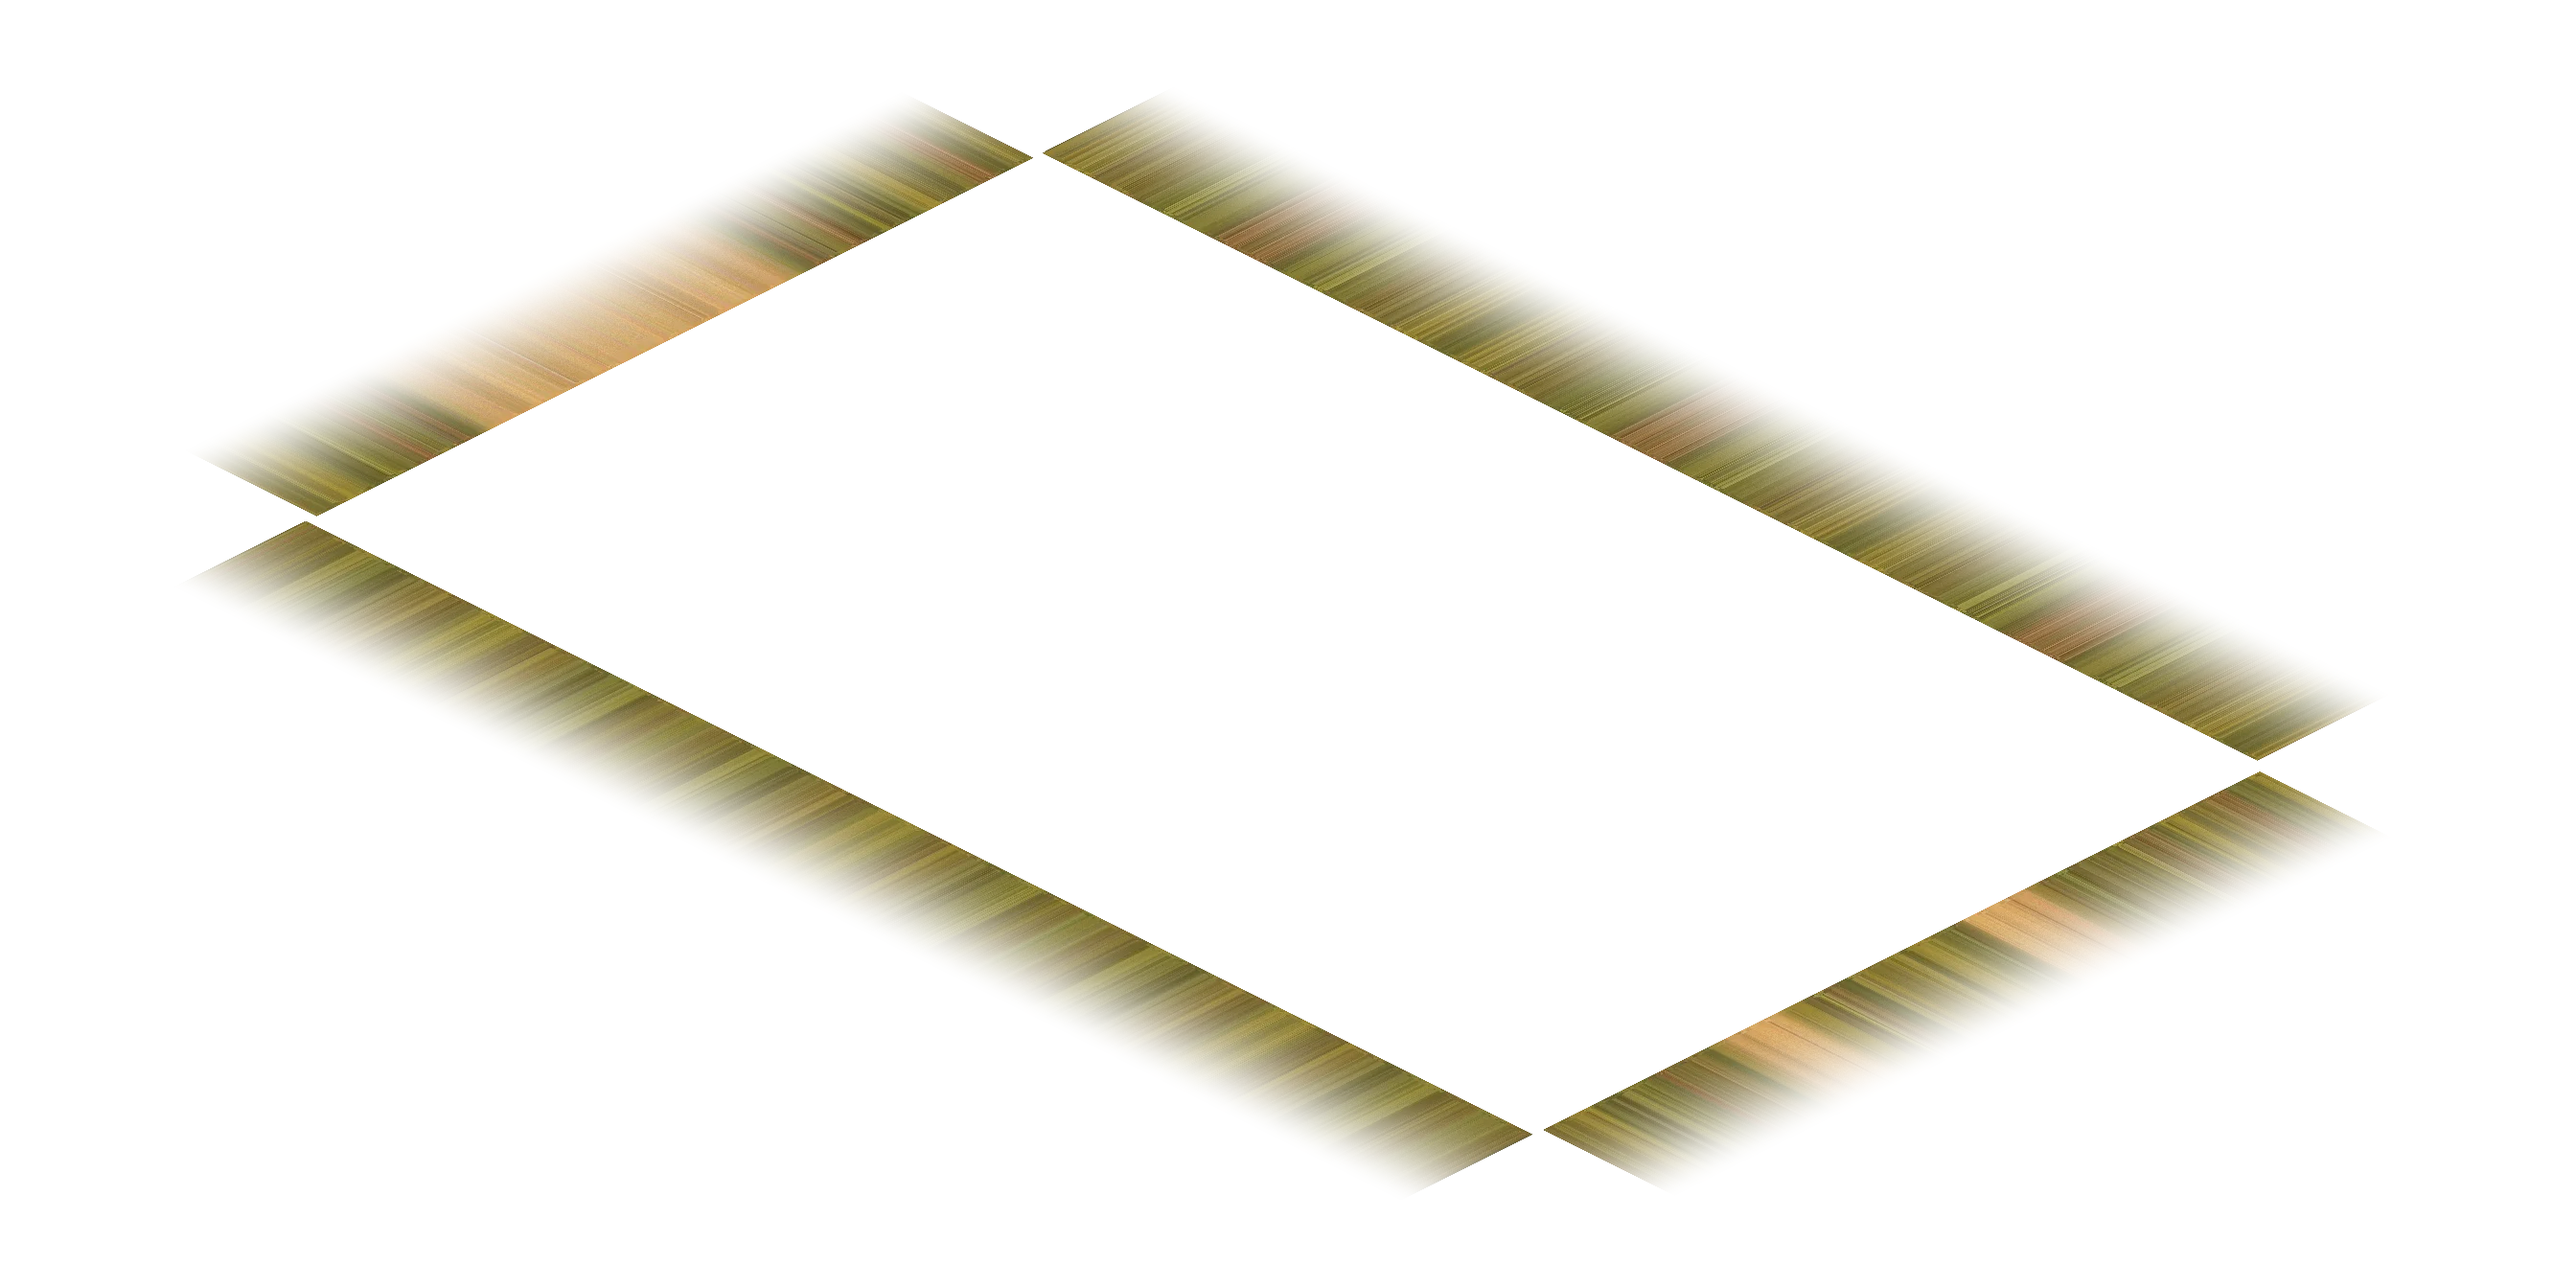
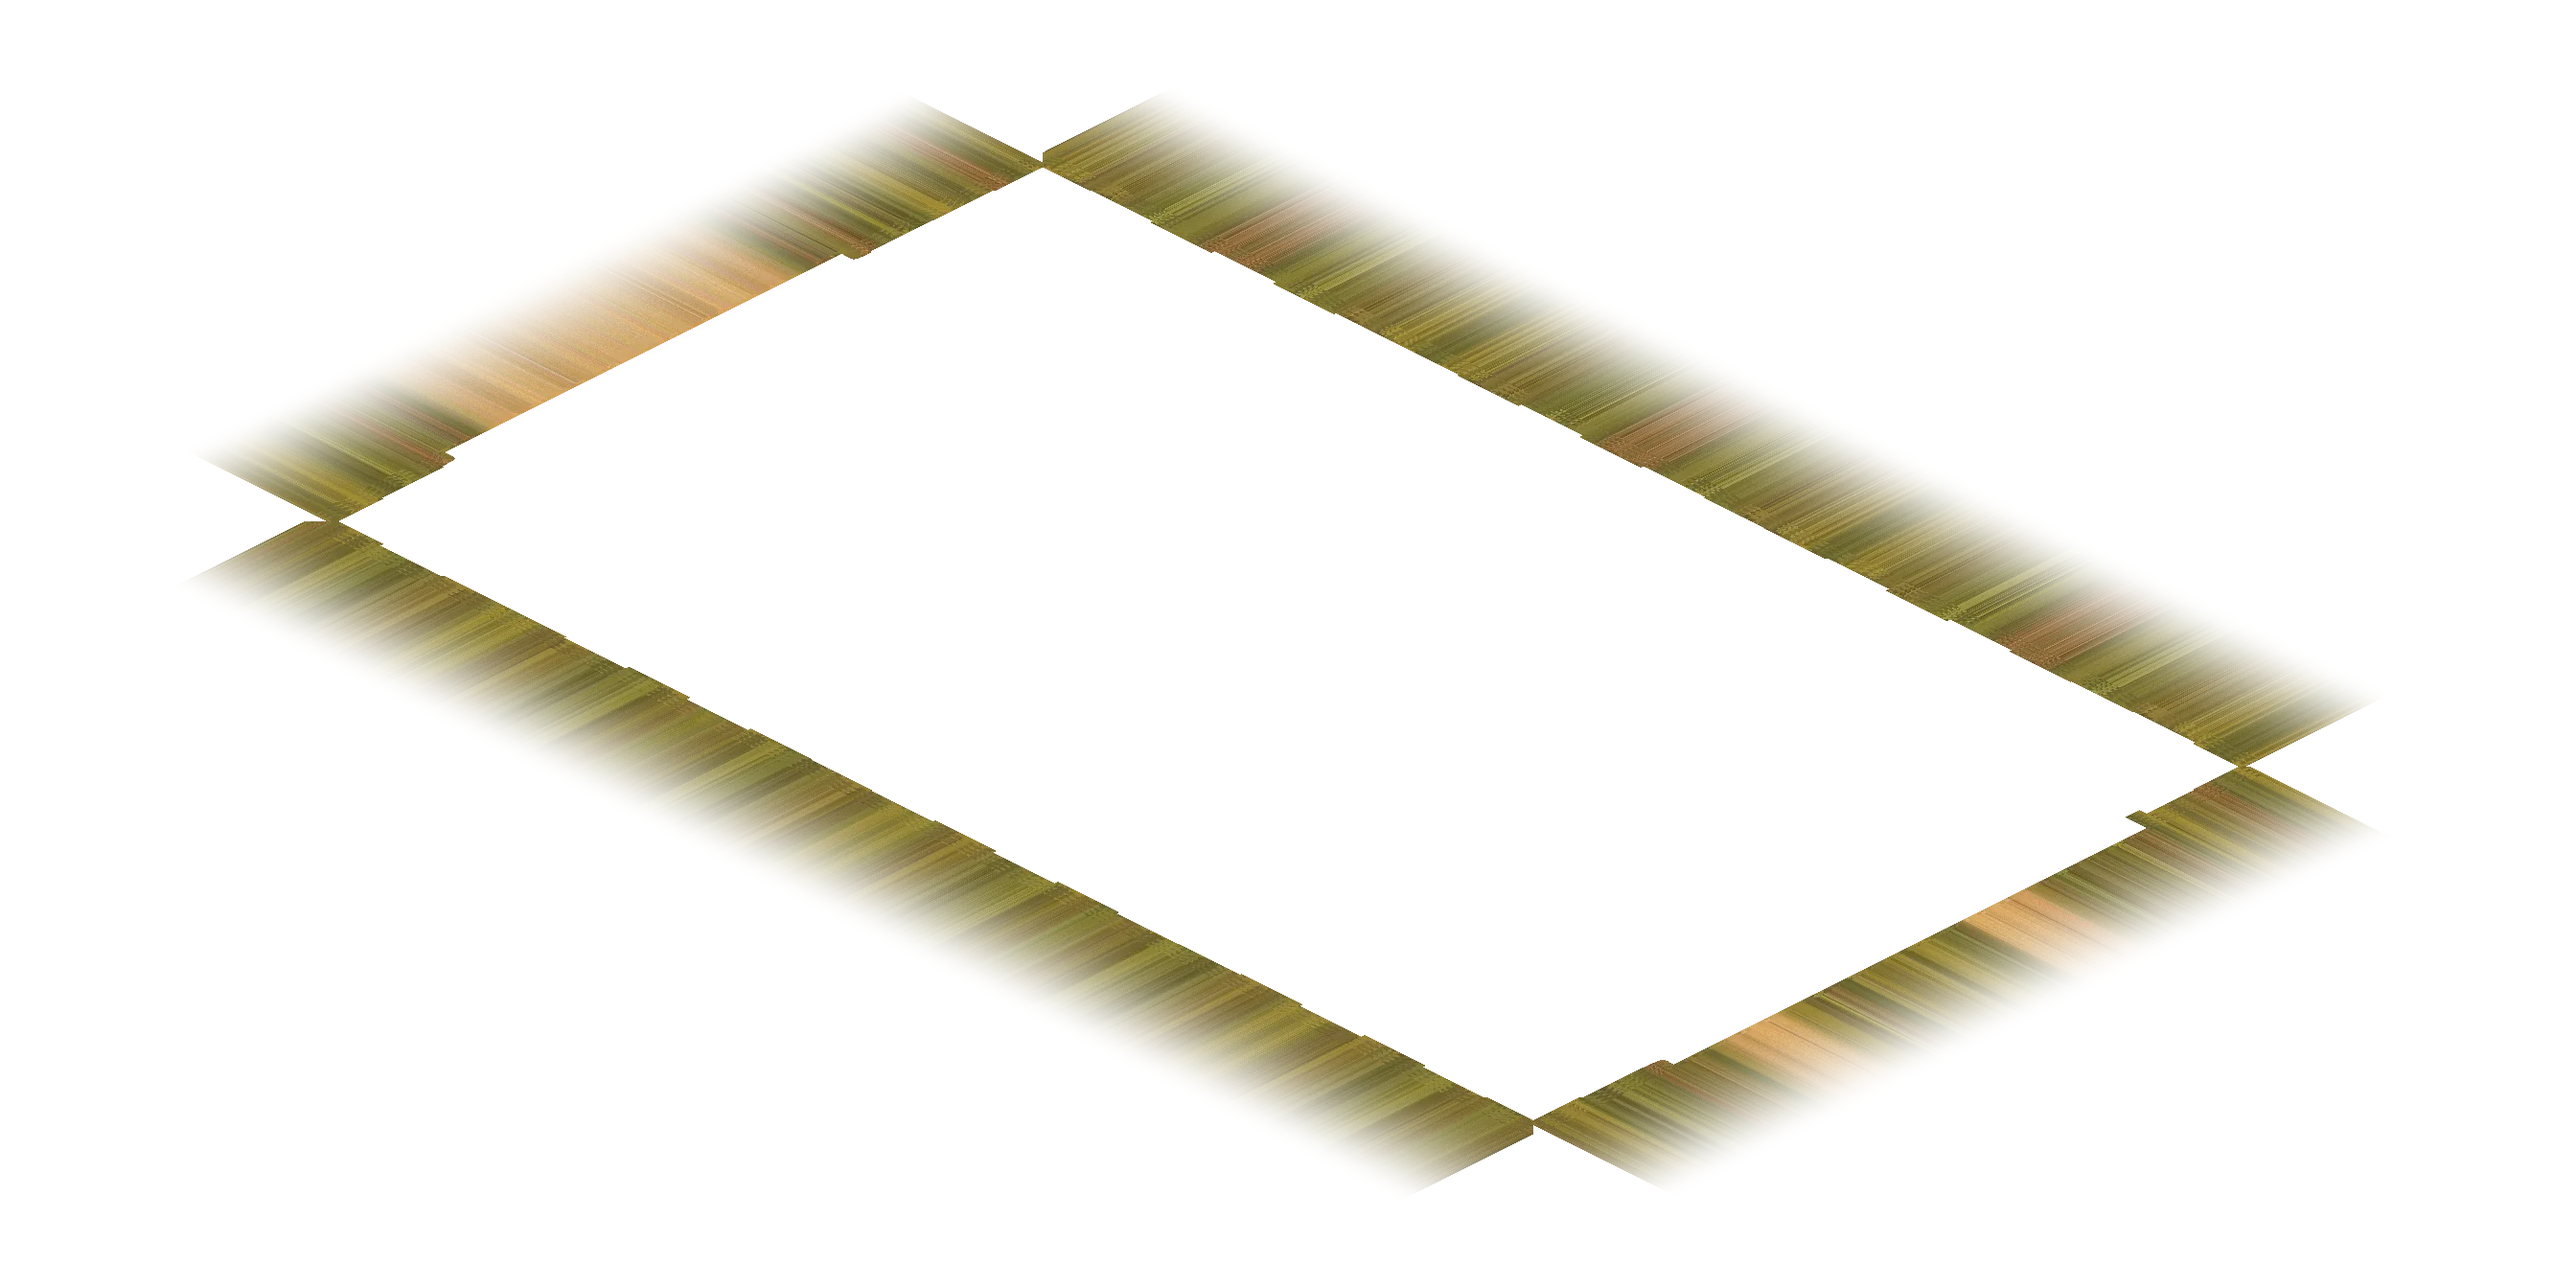
art: close the forest rim seam where the ground leaves the page
The grass packs feather to alpha 0 across their outer ~0.2 tiles. Against the page that was invisible; beside the new apron it read as a pale hem. The plate now reaches 0.35 tiles inside the rim and fills only pixels whose whole ground composite is thinner than GUARD_ALPHA, so the invariant becomes 'never overpaint authored ground' rather than 'never paint a playable pixel'. The rim is closed at every face and the shipped plate stays reproducible.

npm run verify: typecheck, lint, format and 899 tests in 110 files passed.

diff --git a/scripts/art/forest-exterior-apron.ts b/scripts/art/forest-exterior-apron.ts
@@ -34,6 +34,16 @@ export const OUTPUT = 'public/art/maps/forest-scene/exterior-apron.webp';
 /** Authored terrain is fully faded out by this far outside the rim, in tiles. */
 export const APRON_FADE = 2.2;
 /**
+ * How far inside the rim the plate may reach to close the authored ground's own
+ * feather. The grass packs fade to alpha 0 across their outermost ~0.2 tiles; on
+ * the page that was invisible, and beside textured ground it reads as a pale
+ * hem. The plate fills that band, but only where the scene's own ground leaves
+ * the page showing (`GUARD_ALPHA`), so it never overpaints authored ground.
+ */
+export const APRON_SEAM = 0.35;
+/** Ground this opaque is the scene's own painting and is left alone. */
+export const GUARD_ALPHA = 250;
+/**
  * How far inside the board the continuation may reach to find real ground. Two
  * tiles of ledge stand on the eastern rim's cells, so the walk has to be able
  * to cross them to the grass bank they are cut into.
@@ -48,6 +58,15 @@ const TILE = { width: 64, height: 32 } as const;
  * objects standing on the ground, not ground to be smeared outward.
  */
 const BASE_PLATES = ['grass-north.webp', 'grass-south.webp', 'route-ground.webp'] as const;
+/** Every ground plate, in draw order, for the overpaint guard. */
+const GUARD_PLATES = [
+  'grass-north.webp',
+  'grass-south.webp',
+  'route-ground.webp',
+  'pond-bank.webp',
+  'raised-shelf.webp',
+  'rubble.webp',
+] as const;
 
 let decoderReady: Promise<void> | null = null;
 
@@ -164,25 +183,28 @@ export function apronTerrain(
   return null;
 }
 
-export function packApron(plates: readonly ApronPlate[]): Image {
+export function packApron(plates: readonly ApronPlate[], guard: Image): Image {
   const field = baseField(plates);
   const image = newImage(FOREST_EXTERIOR_APRON.width, FOREST_EXTERIOR_APRON.height);
   for (let py = 0; py < image.height; py++) {
     for (let px = 0; px < image.width; px++) {
       const { x, y } = apronLogical(px, py);
       const depth = apronDepth(x, y);
-      if (depth <= 0 || depth >= APRON_FADE) continue;
+      const inside = depth <= 0;
+      if (inside ? depth <= -APRON_SEAM : depth >= APRON_FADE) continue;
+      // Inside the board this plate only closes what the scene left open.
+      if (inside && (pixelAt(guard, px, py)[3] ?? 0) >= GUARD_ALPHA) continue;
       const terrain = apronTerrain(field, x, y);
       if (!terrain) continue;
       // Grain and recession ramp in from the rim, so the board's own edge is
       // not redrawn as a line between the authored ground and its continuation.
-      const settle = smoothstep(0, 0.35, depth);
+      const settle = smoothstep(0, 0.35, Math.max(depth, 0));
       const grain =
         1 + settle * ((tileNoise(px, py, 7) - 0.5) * 0.09 + (tileNoise(px, py, 11) - 0.5) * 0.05);
-      const recession = 1 - 0.1 * smoothstep(0.1, APRON_FADE, depth);
+      const recession = 1 - 0.1 * smoothstep(0.1, APRON_FADE, Math.max(depth, 0));
       const shade = (channel: number): number =>
         clamp(Math.round(channel * grain * recession), 0, 255);
-      const alpha = Math.round(255 * (1 - smoothstep(0.05, APRON_FADE, depth)));
+      const alpha = inside ? 255 : Math.round(255 * (1 - smoothstep(0.05, APRON_FADE, depth)));
       setPixel(image, px, py, [shade(terrain.r), shade(terrain.g), shade(terrain.b), alpha]);
     }
   }
@@ -191,19 +213,33 @@ export function packApron(plates: readonly ApronPlate[]): Image {
 
 /** The scene's own base ground, decoded from the shipped art it registers. */
 export async function loadBasePlates(): Promise<ApronPlate[]> {
-  const scene = FOREST_ROAD_SCENE.ground;
+  return loadPlates(BASE_PLATES);
+}
+
+/** Every ground plate the scene draws, decoded, for the overpaint guard. */
+export async function loadGuardField(): Promise<Image> {
+  return baseField(await loadPlates(GUARD_PLATES));
+}
+
+async function loadPlates(names: readonly string[]): Promise<ApronPlate[]> {
   const plates: ApronPlate[] = [];
-  for (const name of BASE_PLATES) {
-    const piece = scene.find((candidate) => candidate.url.endsWith(name));
-    if (!piece) throw new Error(`${name} is not registered in the forest scene`);
+  const found = new Set<string>();
+  // Scene order is draw order, and a repeated plate (the rubble cells) is drawn
+  // once per cell, so every matching piece belongs in the field.
+  for (const piece of FOREST_ROAD_SCENE.ground) {
+    const name = names.find((candidate) => piece.url.endsWith(candidate));
+    if (!name) continue;
+    found.add(name);
     plates.push({ image: await readWebp(`public/${piece.url}`), x: piece.x, y: piece.y });
   }
+  for (const name of names)
+    if (!found.has(name)) throw new Error(`${name} is not registered in the forest scene`);
   return plates;
 }
 
 /** The apron plate for the scene as registered, decoded from the shipped art. */
 export async function packSceneApron(): Promise<Image> {
-  return packApron(await loadBasePlates());
+  return packApron(await loadBasePlates(), await loadGuardField());
 }
 
 async function main(): Promise<void> {

diff --git a/scripts/art/forest-exterior-apron.test.ts b/scripts/art/forest-exterior-apron.test.ts
@@ -8,11 +8,14 @@ import {
 } from '../../src/content/scenes/forestRoad';
 import {
   APRON_FADE,
+  APRON_SEAM,
+  GUARD_ALPHA,
   OUTPUT,
   apronDepth,
   apronLogical,
   baseField,
   loadBasePlates,
+  loadGuardField,
   packApron,
 } from './forest-exterior-apron';
 import { pixelAt, type Image } from './lib/image';
@@ -20,7 +23,8 @@ import { encodeWebp } from './lib/webp';
 
 const plates = await loadBasePlates();
 const field = baseField(plates);
-const apron = packApron(plates);
+const guard = await loadGuardField();
+const apron = packApron(plates, guard);
 
 /** The apron pixel for a logical point; the forward projection. */
 function apronPixel(x: number, y: number): { x: number; y: number } {
@@ -38,25 +42,31 @@ function apronAt(image: Image, x: number, y: number): readonly number[] {
 const distance = (a: readonly number[], b: readonly number[]): number =>
   Math.hypot((a[0] ?? 0) - (b[0] ?? 0), (a[1] ?? 0) - (b[1] ?? 0), (a[2] ?? 0) - (b[2] ?? 0));
 
-it('ships a reproducible apron that never paints a playable pixel', async () => {
+it('ships a reproducible apron that never overpaints authored ground', async () => {
   expect(Buffer.from(await encodeWebp(apron, 86, true))).toEqual(readFileSync(OUTPUT));
 
   let inside = 0,
     beyond = 0,
     opaque = 0,
-    feather = 0;
+    feather = 0,
+    overpainted = 0;
   for (let py = 0; py < apron.height; py++)
     for (let px = 0; px < apron.width; px++) {
       const alpha = pixelAt(apron, px, py)[3];
       if (alpha === 0) continue;
       const { x, y } = apronLogical(px, py);
       const depth = apronDepth(x, y);
-      if (depth <= 0) inside++;
+      if (depth <= 0) {
+        inside++;
+        // Inside the board the plate may only close what the scene left open.
+        if ((pixelAt(guard, px, py)[3] ?? 0) >= GUARD_ALPHA) overpainted++;
+      }
       if (depth >= APRON_FADE) beyond++;
       if (alpha === 255) opaque++;
       else feather++;
     }
-  expect({ inside, beyond }).toEqual({ inside: 0, beyond: 0 });
+  expect({ overpainted, beyond }).toEqual({ overpainted: 0, beyond: 0 });
+  expect(inside, 'the plate closes the seam the authored ground leaves').toBeGreaterThan(1_000);
   expect(opaque, 'the plate has an opaque band').toBeGreaterThan(1_000);
   expect(feather, 'the plate fades out rather than stopping').toBeGreaterThan(1_000);
 });
@@ -128,6 +138,21 @@ it('carries the material of the cell it leaves, and fades with the page', () => 
   }
   const grass = leaves(-1.5, 1.5);
   expect(distance(grass, meadow), 'the meadow is carried out').toBeLessThan(distance(grass, road));
+
+  // The authored packs feather to 0 across the rim, so the plate fills that
+  // band; with it, nothing along the rim reads as page showing through.
+  for (const point of [
+    { x: 10.5, y: -0.12 },
+    { x: -0.12, y: 1.5 },
+    { x: 10.5, y: FOREST_APRON_MAP.height + 0.12 },
+    { x: FOREST_APRON_MAP.width + 0.12, y: 4.5 },
+  ] as const) {
+    const seam = apronAt(apron, point.x, point.y)[3] ?? 0;
+    const open = apronAt(guard, point.x, point.y)[3] ?? 0;
+    const covered = seam + (open * (255 - seam)) / 255;
+    expect(covered, `${point.x},${point.y} is closed`).toBeGreaterThan(245);
+  }
+  expect(APRON_SEAM).toBeGreaterThan(0.2);
 
   for (const point of [
     { x: -2.35, y: 6 },

diff --git a/docs/coordination/handoffs/forest-road-apron.md b/docs/coordination/handoffs/forest-road-apron.md
@@ -28,11 +28,13 @@ and `codex/village-outer-apron` already carry, so the three merge cleanly.
 ## Evidence on `HEAD`
 
 - `npx vitest run scripts/art/forest-exterior-apron.test.ts` — three tests: the
-  packed plate is byte-identical to the shipped file; no apron pixel lands on
-  the board or past the 2.2-tile fade; the plate is pinned to `FOREST_ROAD`'s
-  own 20x12 size and its scene entry; the band is painted at six rim points; and
-  the road leaves as road while the meadow leaves as meadow, measured against
-  the mean authored colour of each material.
+  packed plate is byte-identical to the shipped file; no apron pixel past the
+  2.2-tile fade, and none inside the board that overpaints authored ground
+  (`GUARD_ALPHA`); the plate is pinned to `FOREST_ROAD`'s own 20x12 size and its
+  scene entry; the band is painted at six rim points; the rim seam is closed
+  (ground plus apron cover more than 245/255 at four faces); and the road leaves
+  as road while the meadow leaves as meadow, measured against the mean authored
+  colour of each material.
 - `npm run verify` on this head — recorded in the PR-less branch push summary
   below (see the commit message for the pass line).
 - Local composites, both with and without the apron:
@@ -42,14 +44,17 @@ and `codex/village-outer-apron` already carry, so the three merge cleanly.
 
 ## Open gaps (not closed by this change)
 
-- **The pale hem is the blocker for review.** The grass packs feather to alpha 0
-  across their outer ~0.2 tiles. That was invisible against the page and now
-  reads as a light hem just inside the rim on the grass faces. Two repairs:
-  (a) extend the band a short way inside and fill only pixels where no ground
-  plate paints, guarding the invariant as "never overpaint authored ground"
-  rather than "never paint a playable pixel"; or (b) rebuild `grass-north`/
-  `grass-south` with an opaque outer row, which touches shipped art and needs the
-  material sheet. (a) is the smaller, self-contained change.
+- **The pale hem is closed but its contour is not yet judged in engine.** The
+  grass packs feather to alpha 0 across their outer ~0.2 tiles, which read as a
+  light hem beside textured ground. The plate now reaches 0.35 tiles inside the
+  rim and fills only where the whole ground composite is thinner than
+  `GUARD_ALPHA`, so the invariant is "never overpaint authored ground" rather
+  than "never paint a playable pixel" (`village-outer-apron` kept the stricter
+  one because its own cells are procedural and its rim did not feather). That
+  fill contour is cell-quantised, so the static composite shows a faint
+  tile-scale notch pattern where it meets the feathered edge. Same material
+  throughout, so it should read as texture noise — but no real frame has been
+  looked at. If it shows, feather the fill's alpha into the guard's own ramp.
 - **No in-engine capture yet.** The composites are static, built from the same
   plates the renderer uses; they are not a Canvas/WebGL frame, not a playthrough
   and not a device check. The obvious next evidence is the rim probe used for the
@@ -61,8 +66,9 @@ and `codex/village-outer-apron` already carry, so the three merge cleanly.
 1. Once v0.2.7 has merged, rebase this branch onto `main`; keep the 0.2.x number
    that is still free after `codex/frame-surround-coverage` and
    `codex/village-outer-apron` land, and add the changelog entry.
-2. Repair the hem as (a) above, re-run `npm run verify`, and capture one
-   Canvas/WebGL rim frame for the branch handoff.
+2. Look at one Canvas/WebGL rim frame (the village apron's probe, pointed at
+   `forest_road`) and decide whether the fill's notch contour needs the alpha
+   feather described above; then set the changelog entry.
 3. Then open the release PR with merge-commit auto-merge under Jared's standing
    policy, and confirm Pages serves the new version.
 
